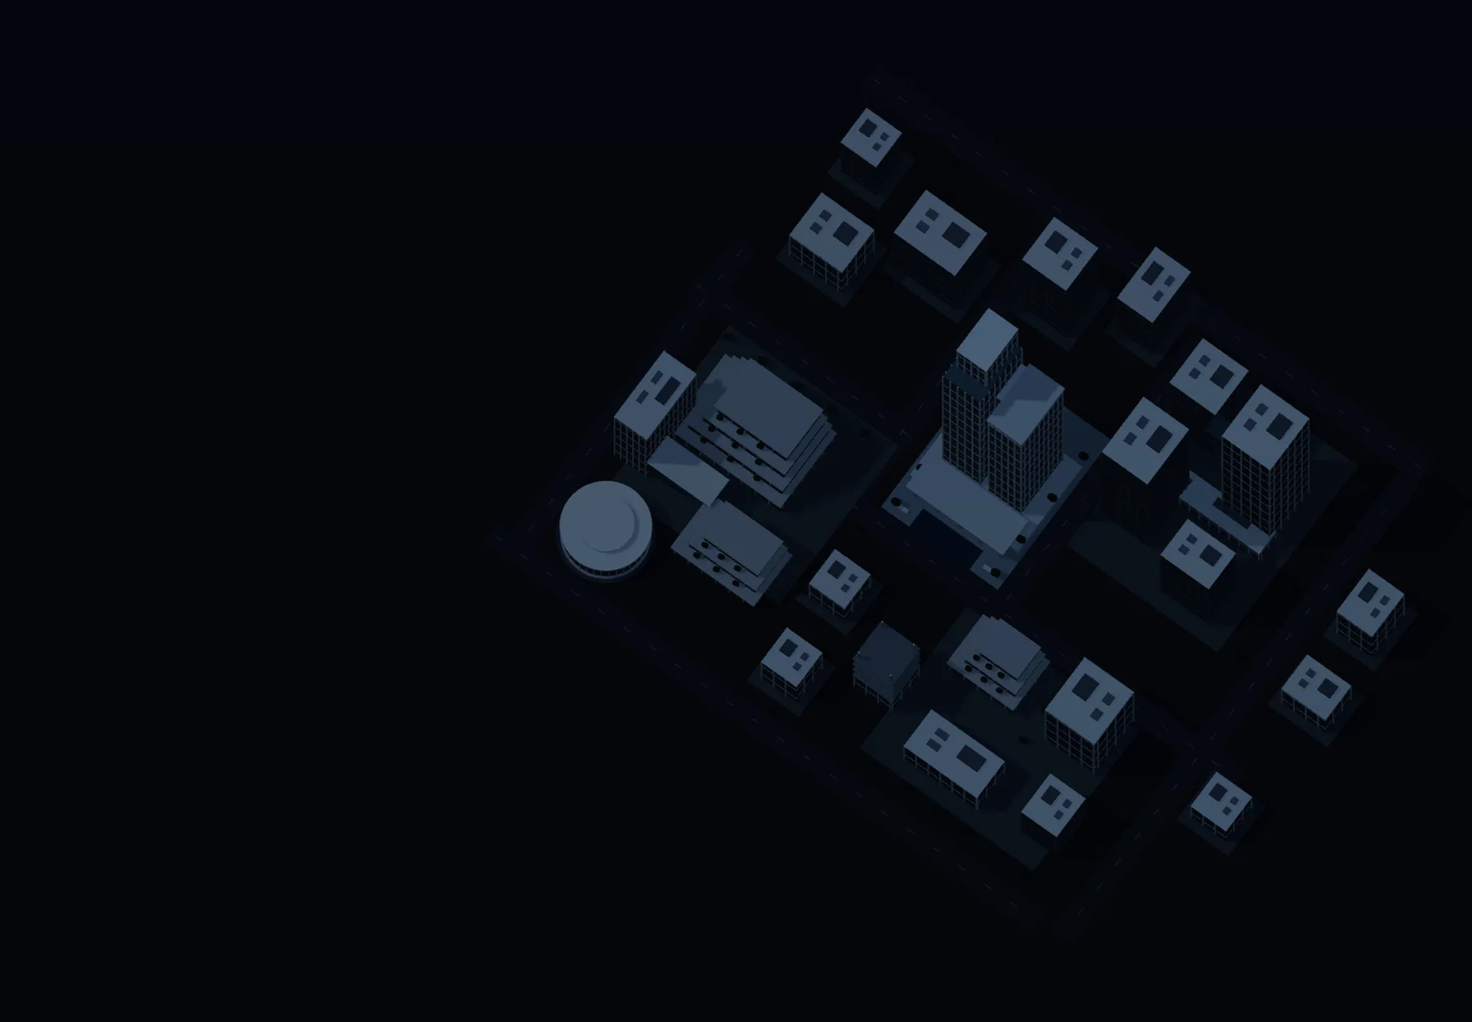
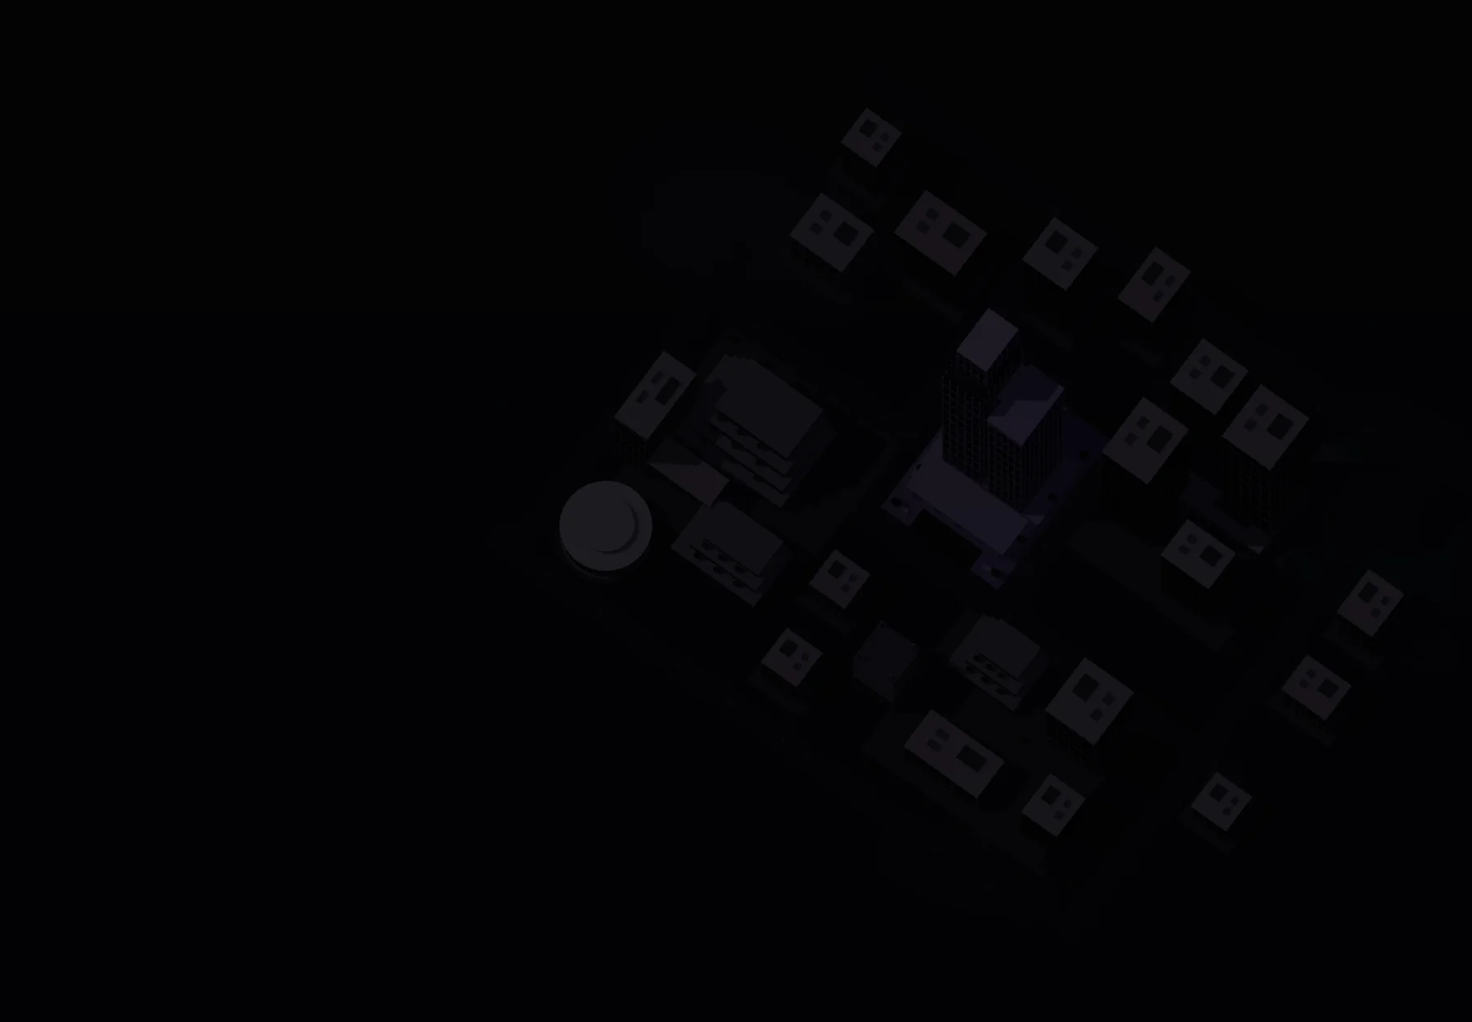
Refine city lighting and surrounding atmosphere

diff --git a/components/city/city-scene.ts b/components/city/city-scene.ts
@@ -7,6 +7,7 @@ import {
   Scene, SRGBColorSpace, Vector2, Vector3, WebGLRenderer,
 } from "three";
 import type { Material, Texture } from "three";
+import { createCitySurroundings } from "./city-surroundings";
 
 export type DistrictId = "core" | "digital" | "software" | "ventures";
 type Options = {
@@ -39,10 +40,10 @@ export function createCityScene(canvas: HTMLCanvasElement, options: Options) {
   renderer.shadowMap.type = PCFSoftShadowMap;
   renderer.shadowMap.autoUpdate = false;
   renderer.shadowMap.needsUpdate = true;
-  renderer.setClearColor(0x080d14, 1);
+  renderer.setClearColor(0x06070b, 1);
   const scene = new Scene();
-  scene.background = new Color(0x080d14);
-  scene.fog = new FogExp2(0x080d14, 0.0034);
+  scene.background = new Color(0x06070b);
+  scene.fog = new FogExp2(0x06070b, 0.0034);
   const camera = new OrthographicCamera(-60, 60, 40, -40, 0.1, 420);
   const geometries = new Set<BufferGeometry>();
   const materials = new Set<Material>();
@@ -64,14 +65,19 @@ export function createCityScene(canvas: HTMLCanvasElement, options: Options) {
 
   // Broad matte ground. The different precincts grow from real pedestrian
   // podiums, with ordinary streets between them, rather than a floating board.
-  const groundMaterial = new MeshStandardMaterial({ color: 0x080e16, roughness: 0.96, metalness: 0.04 });
+  const groundMaterial = new MeshStandardMaterial({ color: 0x09090d, roughness: 0.96, metalness: 0.04 });
   materials.add(groundMaterial);
   const groundGeometry = new PlaneGeometry(600, 600); geometries.add(groundGeometry);
   const ground = new Mesh(groundGeometry, groundMaterial);
   ground.rotation.x = -Math.PI / 2; ground.position.y = -0.06; ground.receiveShadow = true; scene.add(ground);
 
-  const sky = new HemisphereLight(0xb4c6df, 0x20232c, 1.1); scene.add(sky);
-  const sun = new DirectionalLight(0xe5efff, 3.2);
+  // Existing Anthēon sources: intro-scene.ts uViolet and globals.css warm white.
+  // Neutral albedo/key light keep the architecture charcoal; violet lives in illumination.
+  const brandViolet = new Color("#b184ff");
+  const warmWhite = new Color("#f4f2ed");
+  const lavender = warmWhite.clone().lerp(brandViolet, 0.68);
+  const sky = new HemisphereLight(warmWhite.clone().lerp(brandViolet, 0.18), 0x17161a, 1.1); scene.add(sky);
+  const sun = new DirectionalLight(warmWhite, 3.2);
   sun.position.set(-34, 74, 22); sun.castShadow = true;
   sun.shadow.mapSize.set(2048, 2048);
   sun.shadow.camera.left = -63; sun.shadow.camera.right = 63;
@@ -79,8 +85,8 @@ export function createCityScene(canvas: HTMLCanvasElement, options: Options) {
   sun.shadow.camera.near = 5; sun.shadow.camera.far = 170;
   sun.shadow.normalBias = 0.045; sun.shadow.bias = -0.00012;
   sun.shadow.radius = 3; scene.add(sun);
-  const rim = new DirectionalLight(0x90a9d6, 2.1); rim.position.set(32, 38, -45); scene.add(rim);
-  const fill = new DirectionalLight(0xf5d9b6, 0.45); fill.position.set(18, 14, 36); scene.add(fill);
+  const rim = new DirectionalLight(brandViolet, 2.1); rim.position.set(32, 38, -45); scene.add(rim);
+  const fill = new DirectionalLight(warmWhite, 0.25); fill.position.set(18, 14, 36); scene.add(fill);
 
   // A tiny locally drawn studio environment gives glazing reflected sky and
   // elongated highlights, without a remote HDRI or a large environment asset.
@@ -90,16 +96,16 @@ export function createCityScene(canvas: HTMLCanvasElement, options: Options) {
   let environmentTarget: ReturnType<PMREMGenerator["fromEquirectangular"]> | null = null;
   if (ctx) {
     const gradient = ctx.createLinearGradient(0, 0, 0, 256);
-    gradient.addColorStop(0, "#8194ac"); gradient.addColorStop(0.42, "#46596c");
-    gradient.addColorStop(0.55, "#202c3b"); gradient.addColorStop(1, "#10171e");
+    gradient.addColorStop(0, "#59585b"); gradient.addColorStop(0.42, "#353437");
+    gradient.addColorStop(0.55, "#1c1b1e"); gradient.addColorStop(1, "#0d0c0f");
     ctx.fillStyle = gradient; ctx.fillRect(0, 0, 512, 256);
-    ctx.fillStyle = "#b3bfc9"; ctx.fillRect(58, 40, 31, 110);
-    ctx.fillStyle = "#788d9d"; ctx.fillRect(322, 24, 62, 116);
+    ctx.fillStyle = "#c4becb"; ctx.fillRect(58, 40, 31, 110);
+    ctx.fillStyle = "#8b858f"; ctx.fillRect(322, 24, 62, 116);
     const sourceTexture = new CanvasTexture(environmentCanvas);
     sourceTexture.mapping = EquirectangularReflectionMapping; sourceTexture.colorSpace = SRGBColorSpace;
     const pmrem = new PMREMGenerator(renderer);
     environmentTarget = pmrem.fromEquirectangular(sourceTexture);
-    scene.environment = environmentTarget.texture; scene.environmentIntensity = 0.8;
+    scene.environment = environmentTarget.texture; scene.environmentIntensity = 0.65;
     sourceTexture.dispose(); pmrem.dispose();
   }
 
@@ -107,14 +113,14 @@ export function createCityScene(canvas: HTMLCanvasElement, options: Options) {
   const highlights = Object.fromEntries(districtIds.map(id => [id, { value: 0 }])) as Record<DistrictId, Uniform>;
   const tintedMaterials: { material: MeshStandardMaterial; base: Color; id: DistrictId }[] = [];
   const palette: Record<Style, number> = {
-    stone: 0x78858d, metal: 0x9eacb5, glass: 0x4a6579,
-    dark: 0x35414d, paving: 0x28333c, roof: 0x4c5964,
+    stone: 0x454447, metal: 0x656368, glass: 0x29282d,
+    dark: 0x222125, paving: 0x222125, roof: 0x37353b,
   };
   function buildingMaterial(style: Style, district: DistrictId | null) {
     const mat = new MeshStandardMaterial({
       color: palette[style], roughness: style === "glass" ? 0.27 : style === "metal" ? 0.38 : 0.79,
       metalness: style === "glass" ? 0.61 : style === "metal" ? 0.64 : 0.12,
-      envMapIntensity: style === "glass" ? 1.05 : 0.32,
+      envMapIntensity: style === "glass" ? 0.8 : 0.24,
     });
     materials.add(mat);
     if (district) tintedMaterials.push({ material: mat, base: mat.color.clone(), id: district });
@@ -123,6 +129,8 @@ export function createCityScene(canvas: HTMLCanvasElement, options: Options) {
       mat.onBeforeCompile = shader => {
         shader.uniforms.cityActivation = activation;
         shader.uniforms.cityHighlight = highlight;
+        shader.uniforms.cityWindowLavender = { value: lavender };
+        shader.uniforms.cityWarmWhite = { value: warmWhite };
         shader.vertexShader = shader.vertexShader.replace("#include <common>", `#include <common>
           attribute vec3 citySize; attribute float citySeed;
           varying vec2 vCityUv; varying vec2 vCitySize;
@@ -132,6 +140,7 @@ export function createCityScene(canvas: HTMLCanvasElement, options: Options) {
           vCitySide = 1.0 - abs(normal.y); vCitySeed = citySeed;`);
         shader.fragmentShader = shader.fragmentShader.replace("#include <common>", `#include <common>
           uniform float cityActivation; uniform float cityHighlight;
+          uniform vec3 cityWindowLavender; uniform vec3 cityWarmWhite;
           varying vec2 vCityUv; varying vec2 vCitySize;
           varying float vCitySide; varying float vCitySeed;
           float cityHash(vec2 p) { return fract(sin(dot(p,vec2(127.1,311.7)) + vCitySeed) * 43758.5453); }`)
@@ -145,11 +154,12 @@ export function createCityScene(canvas: HTMLCanvasElement, options: Options) {
           diffuseColor.rgb *= mix(0.45,1.0,pane);
           float occupancy = cityHash(cityId);
           float lit = smoothstep(occupancy * 1.25, occupancy * 1.25 + 0.11, cityActivation) * step(0.51,occupancy);
-          vec3 officeLight = mix(vec3(0.32,0.52,0.76),vec3(1.0,0.64,0.31),step(0.74,cityHash(cityId+31.0)));
-          totalEmissiveRadiance += pane * officeLight * (lit * (0.3 + cityHash(cityId+7.0)*0.6) + cityHighlight*0.1*cityActivation);
+          vec3 officeLight = mix(cityWindowLavender,cityWarmWhite,step(0.8,cityHash(cityId+31.0)));
+          officeLight *= mix(0.78,1.35,cityHash(cityId+19.0));
+          totalEmissiveRadiance += pane * officeLight * (lit * (0.18 + cityHash(cityId+7.0)*0.48) + cityHighlight*0.035*cityActivation);
           `);
       };
-      mat.customProgramCacheKey = () => "antheon-city-facades-v1";
+      mat.customProgramCacheKey = () => "antheon-city-facades-v2-lavender";
     }
     return mat;
   }
@@ -206,7 +216,7 @@ export function createCityScene(canvas: HTMLCanvasElement, options: Options) {
   for (let x = -5; x <= 5; x += 2.5) add("core", "stone", x, 1.48, 1.35, 0.2, 2.8, 0.2);
   for (const x of [-5.8, 5.8]) for (const z of [-11, -6, -1, 3]) tree(x, z, 0.2, 0.78);
   // Reflecting water is a dark horizontal surface, not a luminous sci-fi ring.
-  const waterMaterial = new MeshStandardMaterial({ color: 0x243c4c, metalness: 0.8, roughness: 0.2 }); materials.add(waterMaterial);
+  const waterMaterial = new MeshStandardMaterial({ color: 0x24212e, metalness: 0.8, roughness: 0.2 }); materials.add(waterMaterial);
   const water = new Mesh(box, waterMaterial); water.scale.set(7, 0.07, 2.4); water.position.set(0, 0.23, 3); scene.add(water);
   for (const x of [-5.2, 5.2]) { add("core", "stone", x, 0.42, 3, 1.6, 0.4, 0.45); }
 
@@ -225,9 +235,9 @@ export function createCityScene(canvas: HTMLCanvasElement, options: Options) {
   const mediaContext=mediaCanvas.getContext("2d");
   let mediaMaterial:MeshBasicMaterial|null=null;
   if(mediaContext){
-    mediaContext.fillStyle="#172430";mediaContext.fillRect(0,0,256,96);
+    mediaContext.fillStyle="#1b1724";mediaContext.fillRect(0,0,256,96);
     for(let i=0;i<8;i++){
-      mediaContext.fillStyle=["#5e7b8d","#8ea1ac","#354c60","#81979d"][i%4];
+      mediaContext.fillStyle=["#77658e","#b184ff","#3c344b","#b4a7c4"][i%4];
       mediaContext.fillRect(12+i*30,12+(i%3)*13,19,65-(i%3)*13);
     }
     const texture=new CanvasTexture(mediaCanvas);texture.colorSpace=SRGBColorSpace;textures.add(texture);
@@ -299,7 +309,7 @@ export function createCityScene(canvas: HTMLCanvasElement, options: Options) {
     {x:31.5,z:0,w:2.5,d:55,alongX:false},
     {x:-32.1,z:9,w:2.5,d:36,alongX:false},
   ];
-  const roadMaterial = new MeshStandardMaterial({ color: 0x101821, roughness: 0.91 }); materials.add(roadMaterial);
+  const roadMaterial = new MeshStandardMaterial({ color: 0x111015, roughness: 0.91 }); materials.add(roadMaterial);
   const roadMesh = new InstancedMesh(box, roadMaterial, roads.length); scene.add(roadMesh);
   roads.forEach((r,i) => { temp.position.set(r.x,0.01,r.z); temp.scale.set(r.w,0.08,r.d); temp.updateMatrix(); roadMesh.setMatrixAt(i,temp.matrix); });
   const routePieces: Piece[] = [];
@@ -315,7 +325,7 @@ export function createCityScene(canvas: HTMLCanvasElement, options: Options) {
       }
     }
   });
-  const routeMaterial = new MeshBasicMaterial({color:0x7fa8c8,transparent:true,opacity:0.06,toneMapped:false}); materials.add(routeMaterial);
+  const routeMaterial = new MeshBasicMaterial({color:brandViolet,transparent:true,opacity:0.06,toneMapped:false}); materials.add(routeMaterial);
   const routes = new InstancedMesh(box,routeMaterial,routePieces.length); scene.add(routes);
   routePieces.forEach((p,i)=>{temp.position.set(p.x,p.y,p.z);temp.scale.set(p.w,p.h,p.d);temp.rotation.set(0,0,0);temp.updateMatrix();routes.setMatrixAt(i,temp.matrix);});
 
@@ -353,7 +363,7 @@ export function createCityScene(canvas: HTMLCanvasElement, options: Options) {
   // Traffic is a handful of real small cars. Their roof light is quiet; motion
   // follows the street axes and only begins as the city becomes inhabited.
   const cars = Array.from({length:24},(_,i)=>({road:roads[i%roads.length],phase:random(),speed:0.018+random()*0.012,direction:i%2?1:-1}));
-  const carMaterial = new MeshStandardMaterial({color:0x8494a1,roughness:0.4,metalness:0.55});materials.add(carMaterial);
+  const carMaterial = new MeshStandardMaterial({color:0x77717f,roughness:0.4,metalness:0.55});materials.add(carMaterial);
   const carMesh = new InstancedMesh(box,carMaterial,cars.length);scene.add(carMesh);
   const headMaterial = new MeshBasicMaterial({color:0xf5e5ca,transparent:true,opacity:0,toneMapped:false});materials.add(headMaterial);
   const headMesh = new InstancedMesh(box,headMaterial,cars.length);scene.add(headMesh);
@@ -371,6 +381,9 @@ export function createCityScene(canvas: HTMLCanvasElement, options: Options) {
     carMesh.visible=active>0.12;headMesh.visible=active>0.12;headMaterial.opacity=active*0.85;
   }
   updateCars(0,0);
+
+  // Added after the original seeded scene: no change to buildings, windows or traffic.
+  const surroundings = createCitySurroundings(scene, brandViolet);
 
   const raycaster = new Raycaster();
   const pointer = new Vector2(10,10);
@@ -416,14 +429,15 @@ export function createCityScene(canvas: HTMLCanvasElement, options: Options) {
     camera.lookAt(cameraTarget);camera.updateProjectionMatrix();
     const light=ease(0.025,0.58,progress);
     activation.value=light;
-    sun.intensity=0.7+light*1.4;sky.intensity=0.27+light*0.45;rim.intensity=1.0+light*1.45;
+    sun.intensity=0.65+light*1.3;sky.intensity=0.24+light*0.4;rim.intensity=0.32+light*0.85;
+    surroundings.setActivation(light);
     renderer.toneMappingExposure=0.77+light*0.27;
     routeMaterial.opacity=0.04+light*0.64;
     if(mediaMaterial)mediaMaterial.opacity=0.08+light*0.8;
     for(const id of districtIds){const target=id===(selected??hovered)?1:0;highlights[id].value+= (target-highlights[id].value)*0.1;}
-    for(const {material,base,id} of tintedMaterials)material.color.copy(base).lerp(highlightColor,highlights[id].value*0.18);
+    for(const {material,base,id} of tintedMaterials)material.color.copy(base).lerp(highlightColor,highlights[id].value*0.08);
   }
-  const highlightColor=new Color(0xb9d8ee);
+  const highlightColor=lavender.clone();
   function render(timestamp:number){
     raf=0;if(disposed||!running)return;
     const rawDelta=lastTime?(timestamp-lastTime)/1000:1/60;
@@ -470,7 +484,7 @@ export function createCityScene(canvas: HTMLCanvasElement, options: Options) {
       canvas.removeEventListener("pointermove",move);canvas.removeEventListener("pointerleave",leave);
       canvas.removeEventListener("click",click);canvas.removeEventListener("webglcontextlost",contextLost);
       onHover(null);scene.traverse(object=>{if(object instanceof InstancedMesh)object.dispose();});scene.clear();geometries.forEach(geometry=>geometry.dispose());materials.forEach(material=>material.dispose());textures.forEach(texture=>texture.dispose());
-      environmentTarget?.dispose();sun.shadow.dispose();renderer.dispose();
+      surroundings.dispose();environmentTarget?.dispose();sun.shadow.dispose();renderer.dispose();
     },
   };
 }

diff --git a/components/city/city-surroundings.ts b/components/city/city-surroundings.ts
@@ -1,0 +1,101 @@
+import {
+  BoxGeometry, BufferGeometry, CanvasTexture, Color, Float32BufferAttribute,
+  InstancedMesh, LineSegments, Mesh, MeshBasicMaterial, MeshStandardMaterial,
+  Object3D, PlaneGeometry, ShaderMaterial, SRGBColorSpace,
+} from "three";
+import type { Scene } from "three";
+
+/** Quiet scenery outside the original precincts. No raycast targets, shadow
+ * casters, random-sequence consumption or extra animation/render loop. */
+export function createCitySurroundings(scene: Scene, violet: Color) {
+  const activation = { value: 0 };
+  const positions: number[] = [];
+  const strengths: number[] = [];
+  const line = (x1: number, z1: number, x2: number, z2: number, strength = 1) => {
+    positions.push(x1, -0.015, z1, x2, -0.015, z2);
+    strengths.push(strength, strength);
+  };
+  // Continue a handful of actual street axes, interrupted before they reach
+  // the darkness. These are surveying/kerb traces, never an infinite grid.
+  for (const [x, z, length, alongX] of [
+    [48, -29, 29, 1], [52, 27.7, 27, 1], [-47, -3.1, 24, 1],
+    [8.05, -47, 32, 0], [31.5, -45, 27, 0], [-32.1, 42, 22, 0],
+    [31.5, 45, 29, 0], [-9.5, -49, 30, 0],
+  ]) {
+    for (const side of [-1.2, 1.2]) {
+      const start = -length / 2, stop = length / 2;
+      if (alongX) { line(x + start, z + side, x - 2, z + side, .68); line(x + 3, z + side, x + stop, z + side, .44); }
+      else { line(x + side, z + start, x + side, z - 2, .54); line(x + side, z + 3, x + side, z + stop, .72); }
+    }
+  }
+  // Partial plots, a few building setbacks and restrained corner marks.
+  for (const [x, z, w, d] of [
+    [47, -13, 10, 15], [52, 7, 13, 11], [47, 42, 10, 12],
+    [17, -42, 10, 9], [-2, -43, 9, 12], [-22, -41, 10, 8],
+    [-45, 11, 10, 12], [-22, 40, 11, 8], [2, 40, 12, 9],
+  ]) {
+    const l = x - w / 2, r = x + w / 2, n = z - d / 2, s = z + d / 2;
+    line(l, n, r, n, .64); line(r, n, r, s - 2, .52);
+    line(l, n, l, n + d * .45, .45); line(l + w * .32, s, r, s, .4);
+    line(l - 1, n - 1, l + 1, n - 1, .75); line(l - 1, n - 1, l - 1, n + 1, .75);
+    line(l + 2, n + 2, r - 2, n + 2, .24);
+  }
+  const traceGeometry = new BufferGeometry();
+  traceGeometry.setAttribute("position", new Float32BufferAttribute(positions, 3));
+  traceGeometry.setAttribute("traceStrength", new Float32BufferAttribute(strengths, 1));
+  const traceMaterial = new ShaderMaterial({
+    transparent: true, depthWrite: false,
+    uniforms: { activation, ink: { value: new Color("#8a8493").lerp(violet, .18) } },
+    vertexShader: `attribute float traceStrength; varying float vStrength; varying vec2 vPosition;
+      void main(){vStrength=traceStrength;vPosition=position.xz;gl_Position=projectionMatrix*modelViewMatrix*vec4(position,1.0);}`,
+    fragmentShader: `uniform float activation; uniform vec3 ink; varying float vStrength; varying vec2 vPosition;
+      void main(){float edge=1.0-smoothstep(38.0,78.0,length(vPosition*vec2(.92,1.0)));
+        gl_FragColor=vec4(ink,edge*vStrength*(.018+activation*.19));
+        #include <tonemapping_fragment>
+        #include <colorspace_fragment>
+      }`,
+  });
+  const traces = new LineSegments(traceGeometry, traceMaterial); scene.add(traces);
+
+  // Light lies on the same ground as the architecture, so its foreshortening
+  // follows the camera. Small overlapping pools leave most of the plane dark.
+  const lightCanvas = document.createElement("canvas");
+  lightCanvas.width = lightCanvas.height = 512;
+  const ctx = lightCanvas.getContext("2d");
+  if (ctx) {
+    const pool = (x: number, z: number, w: number, d: number, alpha: number) => {
+      ctx.save(); ctx.translate((x / 160 + .5) * 512, (z / 160 + .5) * 512);
+      ctx.scale(w / 160 * 512, d / 160 * 512);
+      const glow = ctx.createRadialGradient(0, 0, 0, 0, 0, 1);
+      glow.addColorStop(0, `rgba(177,132,255,${alpha})`);
+      glow.addColorStop(.32, `rgba(177,132,255,${alpha * .43})`);
+      glow.addColorStop(1, "rgba(177,132,255,0)");
+      ctx.fillStyle = glow; ctx.fillRect(-1, -1, 2, 2); ctx.restore();
+    };
+    pool(-32, -12, 21, 12, .35); pool(-38, -5, 13, 9, .17);
+    pool(31, -22, 19, 17, .42); pool(43, -15, 15, 8, .18);
+    pool(23, 26, 23, 13, .28); pool(15, 31, 12, 8, .13);
+  }
+  const lightTexture = new CanvasTexture(lightCanvas); lightTexture.colorSpace = SRGBColorSpace;
+  const lightGeometry = new PlaneGeometry(160, 160);
+  const lightMaterial = new MeshBasicMaterial({ map: lightTexture, transparent: true, opacity: 0, depthWrite: false, toneMapped: false });
+  const reflectedLight = new Mesh(lightGeometry, lightMaterial);
+  reflectedLight.rotation.x = -Math.PI / 2; reflectedLight.position.y = -.035; scene.add(reflectedLight);
+
+  // A few unlit, distant masses suggest continuation; they cannot be selected.
+  const contextGeometry = new BoxGeometry(1, 1, 1);
+  const contextMaterial = new MeshStandardMaterial({ color: 0x17151c, roughness: 1, metalness: 0, envMapIntensity: .08, transparent: true, opacity: 0, depthWrite: false });
+  const distant = [[48,-14,5,8,6],[56,8,6,5,3],[16,-44,5,5,7],[-22,-43,6,4,5],[-45,14,4,6,4],[46,44,6,5,3]];
+  const silhouettes = new InstancedMesh(contextGeometry, contextMaterial, distant.length);
+  const transform = new Object3D();
+  distant.forEach(([x,z,w,d,h],i)=>{transform.position.set(x,h/2-.04,z);transform.scale.set(w,h,d);transform.updateMatrix();silhouettes.setMatrixAt(i,transform.matrix);});
+  scene.add(silhouettes);
+  return {
+    setActivation(value: number) { activation.value = value; lightMaterial.opacity = .035 + value * .25; contextMaterial.opacity = .12 + value * .33; },
+    dispose() {
+      // The parent owns/disposes InstancedMesh GPU buffers during scene teardown.
+      traceGeometry.dispose(); traceMaterial.dispose(); lightTexture.dispose(); lightGeometry.dispose(); lightMaterial.dispose();
+      contextGeometry.dispose(); contextMaterial.dispose();
+    },
+  };
+}

diff --git a/components/city/city.css b/components/city/city.css
@@ -1,4 +1,4 @@
-.city-experience{position:relative;background:#06070b;height:100svh;min-height:760px;--city-ink:#edf0f5;--city-dim:#9da8b9;--city-line:#a5b6d02b;color:var(--city-ink)}
+.city-experience{position:relative;background:#06070b;height:100svh;min-height:760px;--city-ink:#edf0f5;--city-accent:#b184ff;--city-lavender:color-mix(in srgb,var(--city-accent) 35%,var(--city-ink));--city-dim:#9da8b9;--city-line:#a5b6d02b;color:var(--city-ink)}
 .city-experience:is([data-mode=poster],[data-mode=waiting],[data-mode=loading],[data-mode=live]){height:265svh;min-height:0}
 .city-stage{position:sticky;top:0;height:100svh;min-height:760px;overflow:hidden;isolation:isolate;--city-reveal:0;--city-exit:0;--city-progress:0}
 .city-world{position:absolute;inset:0;z-index:-2;opacity:calc(1 - var(--city-exit)*.82)}
@@ -13,10 +13,10 @@
 .city-eyebrow{font-size:10px;font-weight:450;line-height:1.6;letter-spacing:.16em;color:#a9b8cf}
 .city-heading .city-eyebrow{display:flex;align-items:center;gap:12px}.city-heading .city-eyebrow>span{width:20px;height:1px;background:#a9b8cf}
 .city-heading h1{font-size:clamp(72px,7.4vw,118px);font-weight:420;letter-spacing:-.068em;line-height:1.02;margin:26px 0!important}
-.city-heading h1 em{color:#b7c7df}
+.city-heading h1 em{color:var(--city-lavender)}
 .city-introduction{color:#a6afbd;font-size:14px;line-height:1.8;opacity:calc(1 - var(--city-reveal));max-width:370px}
 .city-explore{display:inline-flex;align-items:center;gap:28px;min-height:48px;padding:12px 0;background:none;border:0;border-bottom:1px solid #a9b8cf60;color:#e4eaf3!important;font-size:12px!important;letter-spacing:.01em;margin-top:22px;pointer-events:auto;opacity:calc(1 - var(--city-reveal));transition:color .25s,gap .25s}
-.city-explore:hover{color:#b9cbff!important;gap:36px}.city-explore .vector-icon{font-size:18px}
+.city-explore:hover{color:var(--city-lavender)!important;gap:36px}.city-explore .vector-icon{font-size:18px}
 .city-experience[data-interacted=true] .city-heading{transform:translateY(-20px) scale(.72)}
 .city-experience[data-interacted=true] .city-introduction,.city-experience[data-interacted=true] .city-explore{opacity:0;pointer-events:none}
 .city-experience[data-mode=live] .city-explore{visibility:visible}
@@ -25,7 +25,7 @@
 .city-detail h2{font-size:30px;font-weight:430;letter-spacing:-.045em;line-height:1.12;white-space:pre-line;margin:15px 0!important}
 .city-detail-copy{color:#a6afbd;font-size:12px;line-height:1.8}
 .city-detail-link{display:inline-flex;align-items:center;gap:20px;font-size:11px;min-height:44px;margin-top:9px;border-bottom:1px solid #adbad33b;pointer-events:auto;transition:color .25s,gap .25s}
-.city-detail-link:hover{gap:27px;color:#c4d4f8}.city-detail-link .vector-icon{font-size:15px}
+.city-detail-link:hover{gap:27px;color:var(--city-lavender)}.city-detail-link .vector-icon{font-size:15px}
 .city-experience[data-interacted=true] .city-detail{opacity:calc(1 - var(--city-exit));transform:none}
 .city-experience[data-mode=static] .city-heading{transform:translateY(-20px) scale(.72)}
 .city-experience[data-mode=static] .city-introduction,.city-experience[data-mode=static] .city-explore{opacity:0;pointer-events:none}
@@ -33,7 +33,7 @@
 .city-bottom{position:absolute;left:8.5%;right:4.5%;bottom:25px;opacity:calc(1 - var(--city-exit)*.6)}
 .city-status-row{display:flex;align-items:center;justify-content:space-between;gap:20px;margin-bottom:16px}
 .city-scroll-note{display:flex;align-items:center;gap:9px;font-size:8px;letter-spacing:.13em;color:#8291a9;line-height:1.7}
-.city-status-dot{width:4px;height:4px;flex:0 0 4px;border-radius:50%;background:#b7c7df;box-shadow:0 0 7px #b7c7df50}
+.city-status-dot{width:4px;height:4px;flex:0 0 4px;border-radius:50%;background:var(--city-lavender);box-shadow:0 0 7px #b184ff40}
 .city-tools{display:flex;align-items:center;gap:24px}.city-pause,.city-continue{display:flex;align-items:center;gap:10px;min-height:44px;background:none;border:0;padding:0;font-size:10px!important;color:#9fadc2!important;transition:color .2s}
 .city-pause:hover,.city-continue:hover{color:#edf0f5!important}.city-pause>span{font-size:15px;line-height:1}.city-continue .vector-icon{font-size:16px}
 /* Layer the district stories in one grid cell so hover changes never shift the layout. */
